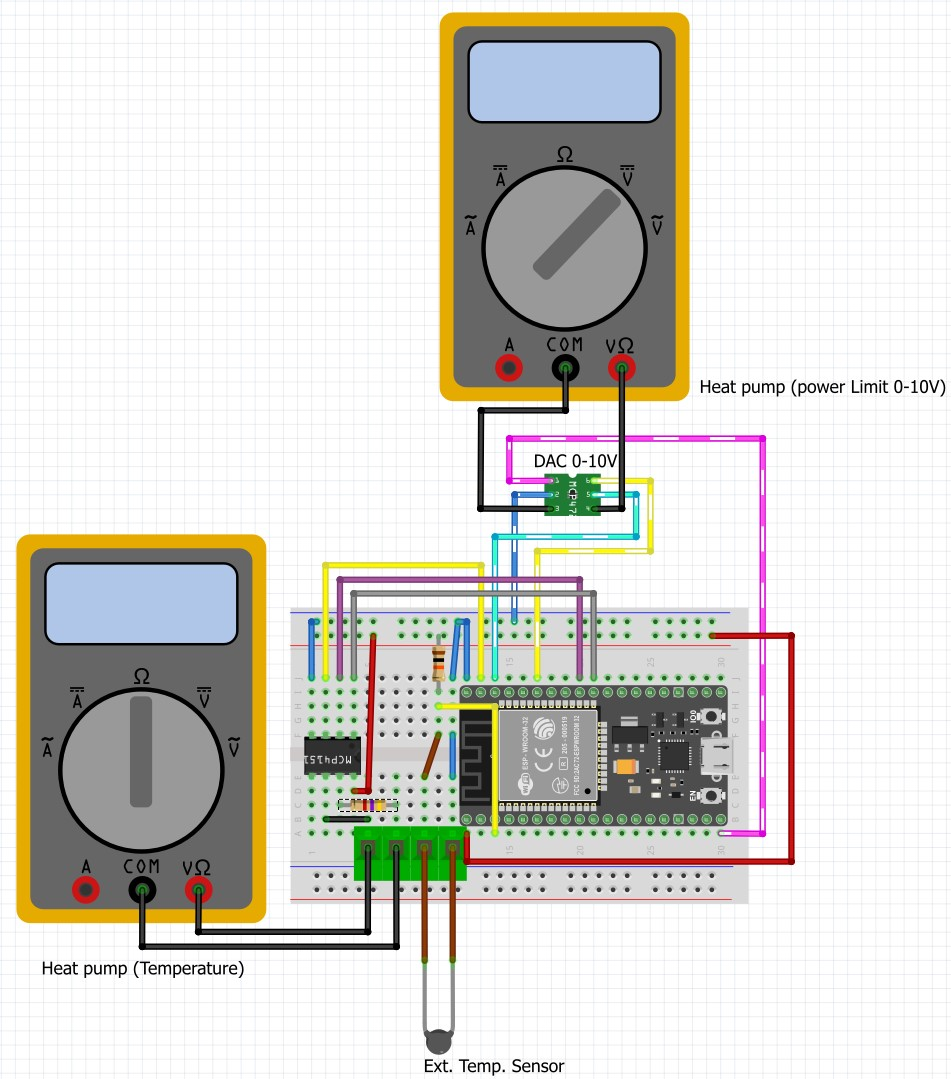
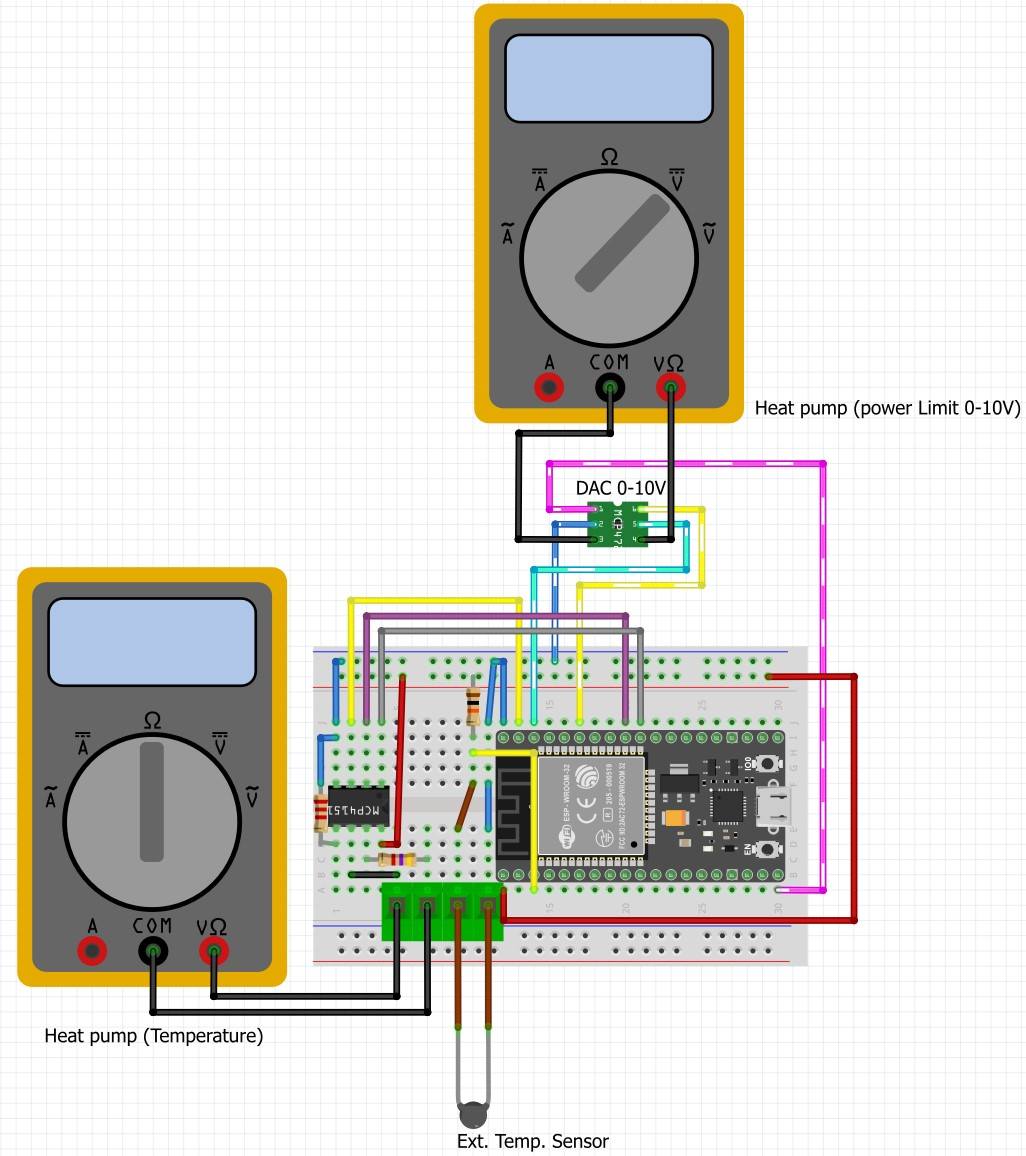
Add missing GND pulldown resistor for the digital potentiometer insdide drawings

diff --git a/README.md b/README.md
@@ -39,7 +39,9 @@ Via an optional 0-10V DAC it is also possible to limit the power consumption via
 | [Prototype Board](https://www.amazon.de/dp/B08F2TS7ZC)     | &#10003; | For final board                                                               |
 | 10k resistor                                               | &#10003; | Voltage devider for input sensor                                              |
 | 5k resistor                                                | &#10003; | Pre-Resistor for Digital potentiometer (defines the possible output temperature, in my case +30°C to -20°C) |
-| [DFRobot Gravity I2C DAC Module](https://www.dfrobot.com/product-2613.html)      | &#10007; | Optional I2C DAC 0-10V for Demand Control                                                   |
+| 2k resistor                                                | &#10003; | GND pulldown for Digital potentiometer                                        |
+| [4CH 5V Relay Module](https://www.amazon.de/dp/B09FS5G1Y9)| &#10007; | Optional relay module for fallback implementation, not required but highly recommended!  |
+| [DFRobot Gravity I2C DAC Module](https://www.dfrobot.com/product-2613.html)      | &#10007; | Optional I2C DAC 0-10V for Demand Control               |
 | [Breadboard Kit](https://www.amazon.de/dp/B0B18G3V5T)      | &#10007; | Prototype Board for testing                                                   |
 | [Connectors](https://www.amazon.de/dp/B087RN8FDZ)          | &#10007; | Connector for wires                                                           |
 | [Socket for ESP](https://www.amazon.de/dp/B07DBY753C)      | &#10007; | Socket for ESP                                                                |
